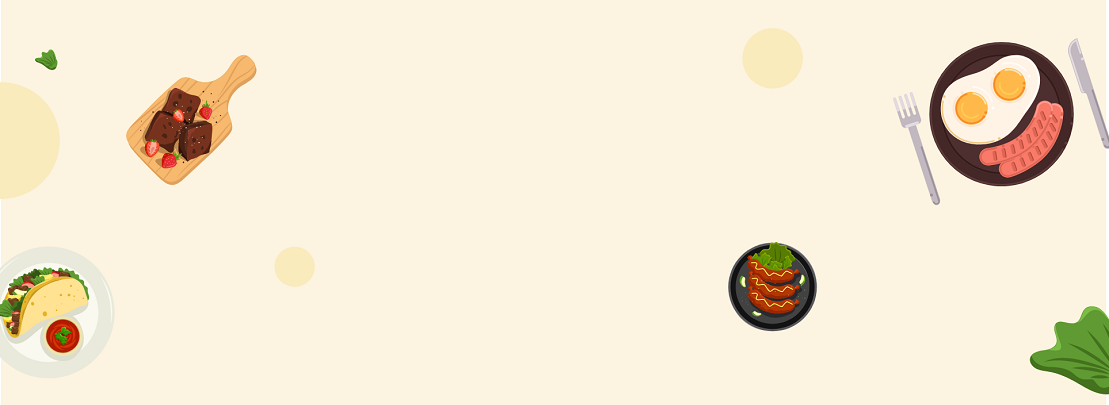
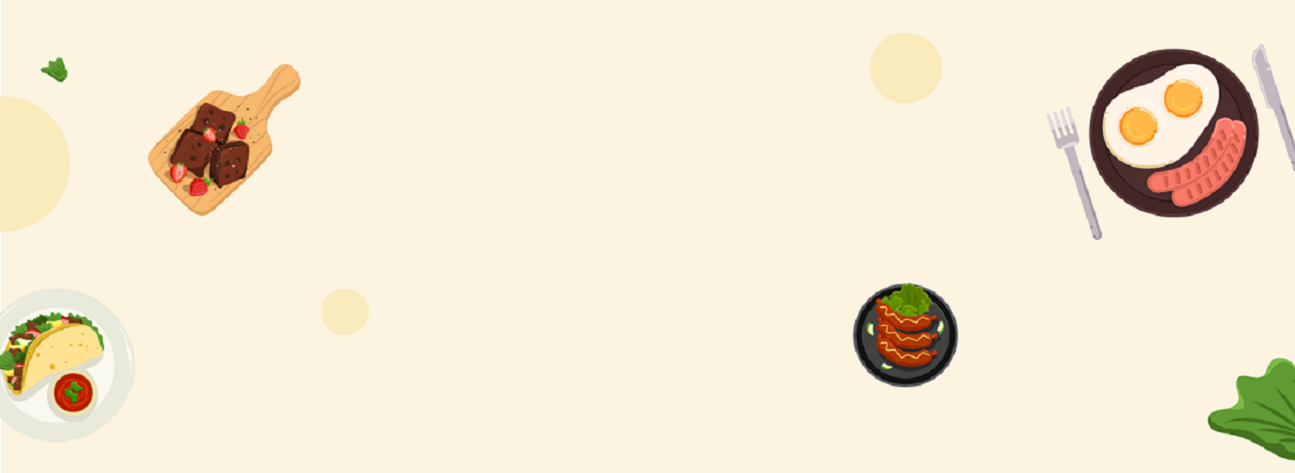
Header section added

diff --git a/src/Pages/Shared/Header/Header.js b/src/Pages/Shared/Header/Header.js
@@ -1,10 +1,33 @@
 import React from 'react';
+import { Container, Nav, Navbar } from 'react-bootstrap';
 import './Header.css';
-
+import logo2 from '../../../images/logo2.png'
+import { AiOutlineShoppingCart } from 'react-icons/ai';
 const Header = () => {
     return (
         <div>
-            <h2>This is header page</h2>            
+            <Navbar collapseOnSelect expand="lg" className='text-dark'>
+                <Container>
+                    <Navbar.Brand href="#home">
+                        <img width='80px' src={logo2} alt="" />
+                    </Navbar.Brand>
+                    <Navbar.Toggle aria-controls="responsive-navbar-nav" />
+                    <Navbar.Collapse id="responsive-navbar-nav">
+                        <Nav className="me-auto">
+                            <Nav.Link href="#pricing">Pricing</Nav.Link>
+                        </Nav>
+                        <Nav>
+                            <Nav.Link className='me-2'>
+                                <AiOutlineShoppingCart></AiOutlineShoppingCart>
+                            </Nav.Link>
+                            <Nav.Link className='me-2' >Login</Nav.Link>
+                            <Nav.Link className='sign-up-btn me-2 text-white'>
+                                SignUp
+                            </Nav.Link>
+                        </Nav>
+                    </Navbar.Collapse>
+                </Container>
+            </Navbar>
         </div>
     );
 };

diff --git a/src/Pages/Home/Home/Home.js b/src/Pages/Home/Home/Home.js
@@ -1,9 +1,11 @@
 import React from 'react';
+import Header from '../../Shared/Header/Header';
 import Banner from '../Banner/Banner';
 
 const Home = () => {
     return (
-        <div className='container mx-auto'>
+        <div className='container'>
+            <Header></Header>
             <Banner></Banner>
         </div>
     );

diff --git a/src/Pages/Home/Banner/Banner.css b/src/Pages/Home/Banner/Banner.css
@@ -1,6 +1,7 @@
 .banner-container{
     background-image: url('../../../images/banner.png');
     background-repeat: no-repeat;
+    background-size: cover;
     height: 400px;
     width: 100%;
 }

diff --git a/src/Pages/Shared/Header/Header.css b/src/Pages/Shared/Header/Header.css
@@ -1,0 +1,7 @@
+.sign-up-btn{
+    background-color: #D32F4D;
+    border-radius: 50px;
+    width: 100px;
+    border: none;
+    text-align: center;
+}
